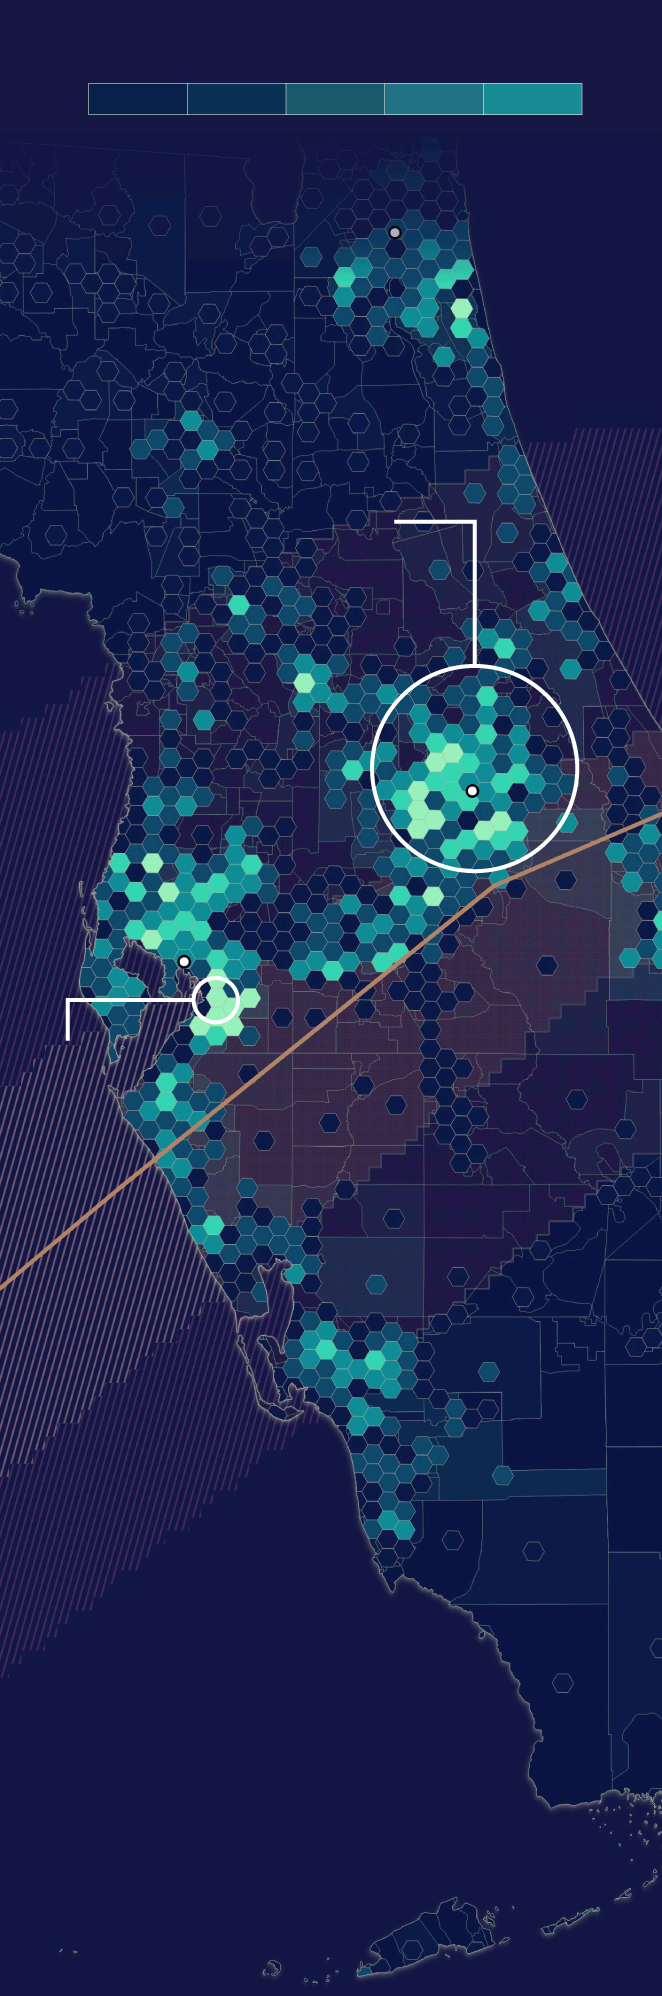
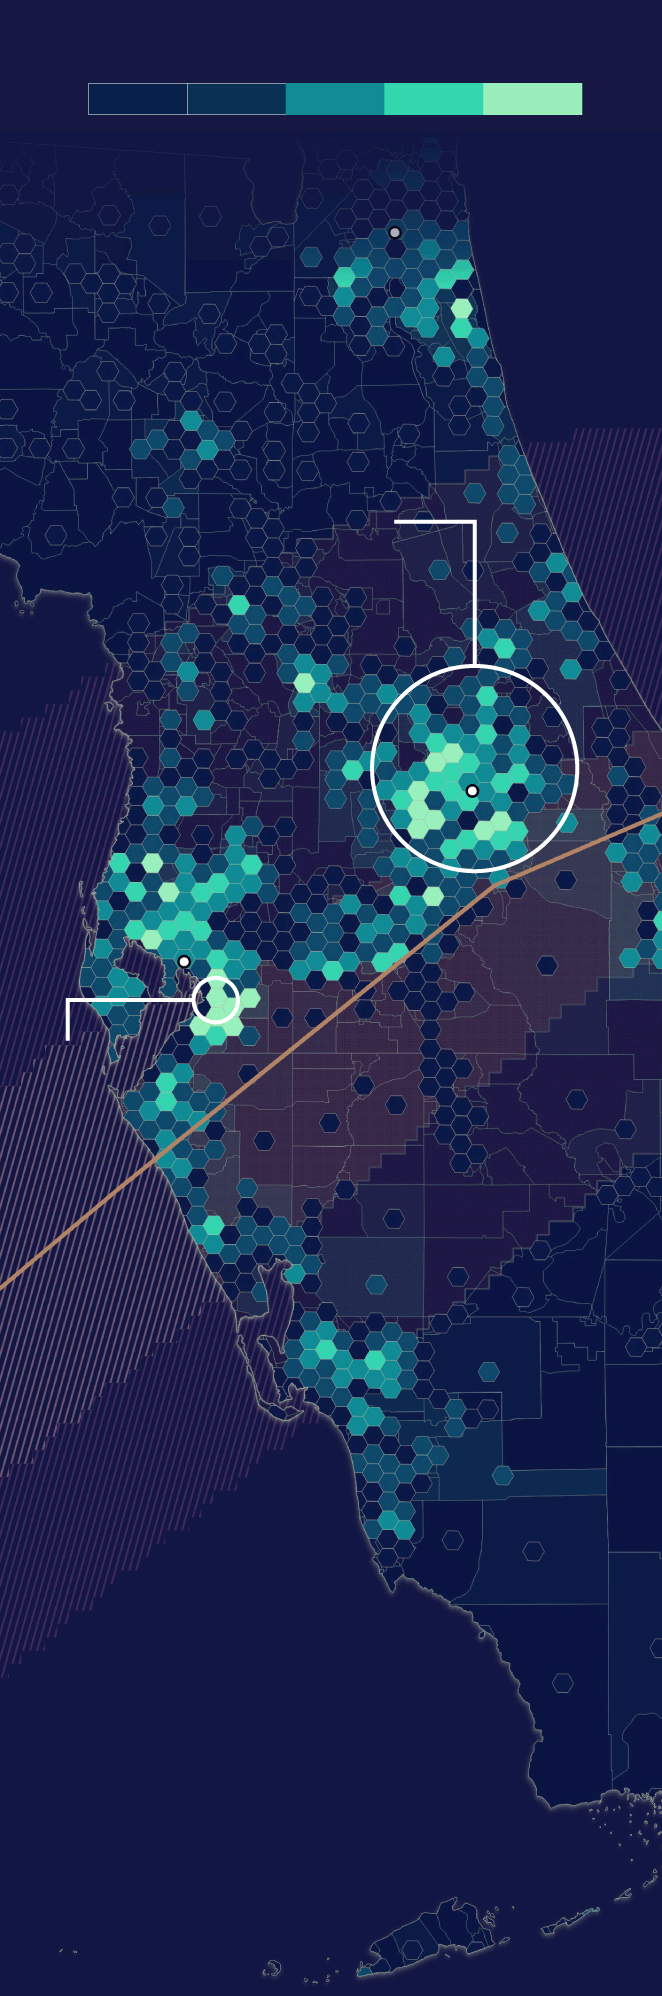
corrects legend

Changed region(s): [[0.423, 0.0311, 0.8761, 0.0621]]

diff --git a/src/ai2html/population-change.svelte b/src/ai2html/population-change.svelte
@@ -1,5 +1,5 @@
 
-<!-- Generated by ai2html v0.100.0 - 2024-10-10 12:20 -->
+<!-- Generated by ai2html v0.100.0 - 2024-10-11 09:49 -->
 <!-- ai file: population-change.ai -->
 <style lang="scss">
 	#g-population-change-box ,
@@ -56,34 +56,41 @@
 		text-align:right;
 	}
 	#g-population-change-sm .g-pstyle2 {
+		line-height:12px;
+		height:12px;
+		font-size:10px;
+		text-align:right;
+		color:rgb(51,51,51);
+	}
+	#g-population-change-sm .g-pstyle3 {
 		font-weight:700;
 		line-height:19px;
 		height:19px;
 		font-size:16px;
 		color:rgb(252,252,252);
 	}
-	#g-population-change-sm .g-pstyle3 {
+	#g-population-change-sm .g-pstyle4 {
 		height:16px;
 		text-align:right;
 	}
-	#g-population-change-sm .g-pstyle4 {
+	#g-population-change-sm .g-pstyle5 {
 		line-height:13px;
 		height:13px;
 		font-size:11px;
 		text-align:center;
 		color:rgb(175,133,102);
 	}
-	#g-population-change-sm .g-pstyle5 {
+	#g-population-change-sm .g-pstyle6 {
 		height:16px;
 	}
-	#g-population-change-sm .g-pstyle6 {
+	#g-population-change-sm .g-pstyle7 {
 		line-height:13px;
 		height:13px;
 		font-size:11px;
 		text-align:center;
 		color:rgb(177,132,98);
 	}
-	#g-population-change-sm .g-pstyle7 {
+	#g-population-change-sm .g-pstyle8 {
 		line-height:13px;
 		height:13px;
 		font-size:11px;
@@ -134,20 +141,27 @@
 		text-align:right;
 	}
 	#g-population-change-md .g-pstyle4 {
-		line-height:13px;
-		height:13px;
-		font-size:11px;
-		text-align:center;
-		color:rgb(175,133,102);
+		line-height:12px;
+		height:12px;
+		font-size:10px;
+		text-align:right;
+		color:rgb(51,51,51);
 	}
 	#g-population-change-md .g-pstyle5 {
 		line-height:13px;
 		height:13px;
 		font-size:11px;
 		text-align:center;
-		color:rgb(177,132,98);
+		color:rgb(175,133,102);
 	}
 	#g-population-change-md .g-pstyle6 {
+		line-height:13px;
+		height:13px;
+		font-size:11px;
+		text-align:center;
+		color:rgb(177,132,98);
+	}
+	#g-population-change-md .g-pstyle7 {
 		line-height:13px;
 		height:13px;
 		font-size:11px;
@@ -188,34 +202,41 @@
 		text-align:right;
 	}
 	#g-population-change-Artboard_82 .g-pstyle2 {
+		line-height:12px;
+		height:12px;
+		font-size:10px;
+		text-align:right;
+		color:rgb(51,51,51);
+	}
+	#g-population-change-Artboard_82 .g-pstyle3 {
 		font-weight:700;
 		line-height:19px;
 		height:19px;
 		font-size:16px;
 		color:rgb(252,252,252);
 	}
-	#g-population-change-Artboard_82 .g-pstyle3 {
+	#g-population-change-Artboard_82 .g-pstyle4 {
 		height:16px;
 		text-align:right;
 	}
-	#g-population-change-Artboard_82 .g-pstyle4 {
+	#g-population-change-Artboard_82 .g-pstyle5 {
 		line-height:13px;
 		height:13px;
 		font-size:11px;
 		text-align:center;
 		color:rgb(175,133,102);
 	}
-	#g-population-change-Artboard_82 .g-pstyle5 {
+	#g-population-change-Artboard_82 .g-pstyle6 {
 		height:16px;
 	}
-	#g-population-change-Artboard_82 .g-pstyle6 {
+	#g-population-change-Artboard_82 .g-pstyle7 {
 		line-height:13px;
 		height:13px;
 		font-size:11px;
 		text-align:center;
 		color:rgb(177,132,98);
 	}
-	#g-population-change-Artboard_82 .g-pstyle7 {
+	#g-population-change-Artboard_82 .g-pstyle8 {
 		line-height:13px;
 		height:13px;
 		font-size:11px;
@@ -240,50 +261,50 @@
 			<p class="g-pstyle1">2k</p>
 		</div>
 		<div id="g-ai0-3" class="g-legend-labels g-aiAbs g-aiPointText" style="top:5.9441%;margin-top:-6.6px;right:55.015%;width:33px;">
-			<p class="g-pstyle1">8k</p>
+			<p class="g-pstyle1">9k</p>
 		</div>
 		<div id="g-ai0-4" class="g-legend-labels g-aiAbs g-aiPointText" style="top:5.9441%;margin-top:-6.6px;right:44.9888%;width:39px;">
 			<p class="g-pstyle1">17k</p>
 		</div>
 		<div id="g-ai0-5" class="g-legend-labels g-aiAbs g-aiPointText" style="top:5.9441%;margin-top:-6.6px;right:35.2553%;width:39px;">
-			<p class="g-pstyle1">35k</p>
+			<p class="g-pstyle2">33k</p>
 		</div>
 		<div id="g-ai0-6" class="g-legend-labels g-aiAbs g-aiPointText" style="top:5.9441%;margin-top:-6.6px;right:25.622%;width:39px;">
-			<p class="g-pstyle1">73k</p>
+			<p class="g-pstyle2">73k</p>
 		</div>
 		<div id="g-ai0-7" class="g-towns g-aiAbs g-aiPointText" style="top:12.7268%;margin-top:-10.7px;left:35.4644%;width:103px;">
-			<p class="g-pstyle2">Jacksonville</p>
+			<p class="g-pstyle3">Jacksonville</p>
 		</div>
 		<div id="g-ai0-8" class="g-labels g-aiAbs g-aiPointText" style="top:25.6395%;margin-top:-32.2px;right:49.4708%;width:225px;">
-			<p class="g-pstyle3">1.5 million people </p>
-			<p class="g-pstyle3">moved to the Orlando metro area </p>
-			<p class="g-pstyle3">in the past decade, a 50% increase </p>
-			<p class="g-pstyle3">over  it's 2010 population </p>
+			<p class="g-pstyle4">1.5 million people </p>
+			<p class="g-pstyle4">moved to the Orlando metro area </p>
+			<p class="g-pstyle4">in the past decade, a 50% increase </p>
+			<p class="g-pstyle4">over  it's 2010 population </p>
 		</div>
 		<div id="g-ai0-9" class="g-towns g-aiAbs g-aiPointText" style="top:39.4406%;margin-top:-10.7px;left:54.9302%;width:77px;">
-			<p class="g-pstyle2">Orlando</p>
+			<p class="g-pstyle3">Orlando</p>
 		</div>
 		<div id="g-ai0-10" class="g-towns g-aiAbs g-aiPointText" style="top:48.0129%;margin-top:-10.7px;left:26.9006%;width:67px;">
-			<p class="g-pstyle2">Tampa</p>
+			<p class="g-pstyle3">Tampa</p>
 		</div>
-		<div id="g-ai0-11" class="g-small-labels g-aiAbs g-aiPointText" style="transform: matrix(0.7947,-0.607,0.607,0.7947,0,0);transform-origin: 50% 56.9489685124864%;-webkit-transform: matrix(0.7947,-0.607,0.607,0.7947,0,0);-webkit-transform-origin: 50% 56.9489685124864%;-ms-transform: matrix(0.7947,-0.607,0.607,0.7947,0,0);-ms-transform-origin: 50% 56.9489685124864%;top:53.9456%;margin-top:-7.2px;left:43.9289%;margin-left:-47.5px;width:95px;">
-			<p class="g-pstyle4">Hurricane path</p>
+		<div id="g-ai0-11" class="g-small-labels g-aiAbs g-aiPointText" style="transform: matrix(0.7947,-0.607,0.607,0.7947,0,0);transform-origin: 50% 56.9489685124864%;-webkit-transform: matrix(0.7947,-0.607,0.607,0.7947,0,0);-webkit-transform-origin: 50% 56.9489685124864%;-ms-transform: matrix(0.7947,-0.607,0.607,0.7947,0,0);-ms-transform-origin: 50% 56.9489685124864%;top:53.9456%;margin-top:-7.2px;left:43.9201%;margin-left:-47.5px;width:95px;">
+			<p class="g-pstyle5">Hurricane path</p>
 		</div>
 		<div id="g-ai0-12" class="g-labels g-aiAbs g-aiPointText" style="top:57.9154%;margin-top:-40px;left:1.985%;width:141px;">
-			<p class="g-pstyle5">Riverview, a suburb </p>
-			<p class="g-pstyle5">of Tampa, almost </p>
-			<p class="g-pstyle5">doubled it's housing </p>
-			<p class="g-pstyle5">stock from 25k to </p>
-			<p class="g-pstyle5">45k units.</p>
+			<p class="g-pstyle6">Riverview, a suburb </p>
+			<p class="g-pstyle6">of Tampa, almost </p>
+			<p class="g-pstyle6">doubled it's housing </p>
+			<p class="g-pstyle6">stock from 25k to </p>
+			<p class="g-pstyle6">45k units.</p>
 		</div>
-		<div id="g-ai0-13" class="g-small-labels g-aiAbs g-aiPointText" style="transform: matrix(0.7864,-0.6177,0.6177,0.7864,0,0);transform-origin: 50% 56.9489685124864%;-webkit-transform: matrix(0.7864,-0.6177,0.6177,0.7864,0,0);-webkit-transform-origin: 50% 56.9489685124864%;-ms-transform: matrix(0.7864,-0.6177,0.6177,0.7864,0,0);-ms-transform-origin: 50% 56.9489685124864%;top:70.0935%;margin-top:-7.2px;left:22.6866%;margin-left:-51px;width:102px;">
-			<p class="g-pstyle6">Hurricane winds</p>
+		<div id="g-ai0-13" class="g-small-labels g-aiAbs g-aiPointText" style="transform: matrix(0.7864,-0.6177,0.6177,0.7864,0,0);transform-origin: 50% 56.9489685124864%;-webkit-transform: matrix(0.7864,-0.6177,0.6177,0.7864,0,0);-webkit-transform-origin: 50% 56.9489685124864%;-ms-transform: matrix(0.7864,-0.6177,0.6177,0.7864,0,0);-ms-transform-origin: 50% 56.9489685124864%;top:70.0935%;margin-top:-7.2px;left:22.6885%;margin-left:-51px;width:102px;">
+			<p class="g-pstyle7">Hurricane winds</p>
 		</div>
-		<div id="g-ai0-14" class="g-small-labels g-aiAbs g-aiPointText" style="transform: matrix(0.7777,-0.6286,0.6286,0.7777,0,0);transform-origin: 50% 56.9489685124864%;-webkit-transform: matrix(0.7777,-0.6286,0.6286,0.7777,0,0);-webkit-transform-origin: 50% 56.9489685124864%;-ms-transform: matrix(0.7777,-0.6286,0.6286,0.7777,0,0);-ms-transform-origin: 50% 56.9489685124864%;top:77.4697%;margin-top:-7.2px;left:34.3029%;margin-left:-62.5px;width:125px;">
-			<p class="g-pstyle7">Tropical storm winds</p>
+		<div id="g-ai0-14" class="g-small-labels g-aiAbs g-aiPointText" style="transform: matrix(0.7777,-0.6286,0.6286,0.7777,0,0);transform-origin: 50% 56.9489685124864%;-webkit-transform: matrix(0.7777,-0.6286,0.6286,0.7777,0,0);-webkit-transform-origin: 50% 56.9489685124864%;-ms-transform: matrix(0.7777,-0.6286,0.6286,0.7777,0,0);-ms-transform-origin: 50% 56.9489685124864%;top:77.4697%;margin-top:-7.2px;left:34.3134%;margin-left:-62.5px;width:125px;">
+			<p class="g-pstyle8">Tropical storm winds</p>
 		</div>
 		<div id="g-ai0-15" class="g-towns g-aiAbs g-aiPointText" style="top:79.8104%;margin-top:-10.7px;left:85.3013%;width:65px;">
-			<p class="g-pstyle2">Miami</p>
+			<p class="g-pstyle3">Miami</p>
 		</div>
 	</div>
 {/if}
@@ -306,20 +327,20 @@
 		<div id="g-ai1-4" class="g-legend_copy g-aiAbs g-aiPointText" style="top:23.3373%;margin-top:-11.3px;left:17.2611%;margin-left:-89.5px;width:179px;">
 			<p class="g-pstyle2">Increase in population</p>
 		</div>
-		<div id="g-ai1-5" class="g-legend-labels g-aiAbs g-aiPointText" style="top:25.8489%;margin-top:-6.6px;right:91.8123%;width:33px;">
+		<div id="g-ai1-5" class="g-legend-labels g-aiAbs g-aiPointText" style="top:25.9564%;margin-top:-6.6px;right:91.8123%;width:33px;">
 			<p class="g-pstyle3">2k</p>
 		</div>
-		<div id="g-ai1-6" class="g-legend-labels g-aiAbs g-aiPointText" style="top:25.8489%;margin-top:-6.6px;right:86.154%;width:33px;">
-			<p class="g-pstyle3">8k</p>
+		<div id="g-ai1-6" class="g-legend-labels g-aiAbs g-aiPointText" style="top:25.9564%;margin-top:-6.6px;right:86.154%;width:33px;">
+			<p class="g-pstyle3">9k</p>
 		</div>
-		<div id="g-ai1-7" class="g-legend-labels g-aiAbs g-aiPointText" style="top:25.8489%;margin-top:-6.6px;right:80.27%;width:39px;">
+		<div id="g-ai1-7" class="g-legend-labels g-aiAbs g-aiPointText" style="top:25.9564%;margin-top:-6.6px;right:80.27%;width:39px;">
 			<p class="g-pstyle3">17k</p>
 		</div>
-		<div id="g-ai1-8" class="g-sm g-aiAbs g-aiPointText" style="top:25.8489%;margin-top:-6.6px;right:74.5062%;width:39px;">
-			<p class="g-pstyle3">35k</p>
+		<div id="g-ai1-8" class="g-sm g-aiAbs g-aiPointText" style="top:25.9564%;margin-top:-6.6px;right:74.5062%;width:39px;">
+			<p class="g-pstyle4">33k</p>
 		</div>
-		<div id="g-ai1-9" class="g-sm g-aiAbs g-aiPointText" style="top:25.8489%;margin-top:-6.6px;right:68.8142%;width:39px;">
-			<p class="g-pstyle3">73k</p>
+		<div id="g-ai1-9" class="g-sm g-aiAbs g-aiPointText" style="top:25.9564%;margin-top:-6.6px;right:68.8142%;width:39px;">
+			<p class="g-pstyle4">73k</p>
 		</div>
 		<div id="g-ai1-10" class="g-towns g-aiAbs g-aiPointText" style="top:34.1253%;margin-top:-10.7px;left:65.285%;width:77px;">
 			<p class="g-pstyle0">Orlando</p>
@@ -327,8 +348,8 @@
 		<div id="g-ai1-11" class="g-towns g-aiAbs g-aiPointText" style="top:43.256%;margin-top:-10.7px;left:43.6256%;width:67px;">
 			<p class="g-pstyle0">Tampa</p>
 		</div>
-		<div id="g-ai1-12" class="g-small-labels g-aiAbs g-aiPointText" style="transform: matrix(0.7734,-0.634,0.634,0.7734,0,0);transform-origin: 50% 56.9489685124864%;-webkit-transform: matrix(0.7734,-0.634,0.634,0.7734,0,0);-webkit-transform-origin: 50% 56.9489685124864%;-ms-transform: matrix(0.7734,-0.634,0.634,0.7734,0,0);-ms-transform-origin: 50% 56.9489685124864%;top:50.5088%;margin-top:-7.2px;left:55.3141%;margin-left:-47.5px;width:95px;">
-			<p class="g-pstyle4">Hurricane path</p>
+		<div id="g-ai1-12" class="g-small-labels g-aiAbs g-aiPointText" style="transform: matrix(0.7734,-0.634,0.634,0.7734,0,0);transform-origin: 50% 56.9489685124864%;-webkit-transform: matrix(0.7734,-0.634,0.634,0.7734,0,0);-webkit-transform-origin: 50% 56.9489685124864%;-ms-transform: matrix(0.7734,-0.634,0.634,0.7734,0,0);-ms-transform-origin: 50% 56.9489685124864%;top:50.5088%;margin-top:-7.2px;left:55.3236%;margin-left:-47.5px;width:95px;">
+			<p class="g-pstyle5">Hurricane path</p>
 		</div>
 		<div id="g-ai1-13" class="g-labels g-aiAbs g-aiPointText" style="top:52.8749%;margin-top:-32.2px;left:18.1774%;width:173px;">
 			<p class="g-pstyle1">Riverview, a suburb </p>
@@ -336,11 +357,11 @@
 			<p class="g-pstyle1">it's housing stock from </p>
 			<p class="g-pstyle1">25k to 45k units.</p>
 		</div>
-		<div id="g-ai1-14" class="g-small-labels g-aiAbs g-aiPointText" style="transform: matrix(0.7864,-0.6177,0.6177,0.7864,0,0);transform-origin: 50% 56.9489685124864%;-webkit-transform: matrix(0.7864,-0.6177,0.6177,0.7864,0,0);-webkit-transform-origin: 50% 56.9489685124864%;-ms-transform: matrix(0.7864,-0.6177,0.6177,0.7864,0,0);-ms-transform-origin: 50% 56.9489685124864%;top:69.5223%;margin-top:-7.2px;left:35.1662%;margin-left:-51px;width:102px;">
-			<p class="g-pstyle5">Hurricane winds</p>
+		<div id="g-ai1-14" class="g-small-labels g-aiAbs g-aiPointText" style="transform: matrix(0.7864,-0.6177,0.6177,0.7864,0,0);transform-origin: 50% 56.9489685124864%;-webkit-transform: matrix(0.7864,-0.6177,0.6177,0.7864,0,0);-webkit-transform-origin: 50% 56.9489685124864%;-ms-transform: matrix(0.7864,-0.6177,0.6177,0.7864,0,0);-ms-transform-origin: 50% 56.9489685124864%;top:69.5223%;margin-top:-7.2px;left:35.1677%;margin-left:-51px;width:102px;">
+			<p class="g-pstyle6">Hurricane winds</p>
 		</div>
-		<div id="g-ai1-15" class="g-small-labels g-aiAbs g-aiPointText" style="transform: matrix(0.7864,-0.6177,0.6177,0.7864,0,0);transform-origin: 50% 56.9489685124864%;-webkit-transform: matrix(0.7864,-0.6177,0.6177,0.7864,0,0);-webkit-transform-origin: 50% 56.9489685124864%;-ms-transform: matrix(0.7864,-0.6177,0.6177,0.7864,0,0);-ms-transform-origin: 50% 56.9489685124864%;top:77.5789%;margin-top:-7.2px;left:45.3522%;margin-left:-62.5px;width:125px;">
-			<p class="g-pstyle6">Tropical storm winds</p>
+		<div id="g-ai1-15" class="g-small-labels g-aiAbs g-aiPointText" style="transform: matrix(0.7864,-0.6177,0.6177,0.7864,0,0);transform-origin: 50% 56.9489685124864%;-webkit-transform: matrix(0.7864,-0.6177,0.6177,0.7864,0,0);-webkit-transform-origin: 50% 56.9489685124864%;-ms-transform: matrix(0.7864,-0.6177,0.6177,0.7864,0,0);-ms-transform-origin: 50% 56.9489685124864%;top:77.5789%;margin-top:-7.2px;left:45.3535%;margin-left:-62.5px;width:125px;">
+			<p class="g-pstyle7">Tropical storm winds</p>
 		</div>
 		<div id="g-ai1-16" class="g-towns g-aiAbs g-aiPointText" style="top:78.0604%;margin-top:-10.7px;left:89.5937%;width:65px;">
 			<p class="g-pstyle0">Miami</p>
@@ -357,51 +378,51 @@
 			<p class="g-pstyle1">2k</p>
 		</div>
 		<div id="g-ai2-3" class="g-legend-labels g-aiAbs g-aiPointText" style="top:5.0726%;margin-top:-6.6px;right:58.0435%;width:33px;">
-			<p class="g-pstyle1">8k</p>
+			<p class="g-pstyle1">9k</p>
 		</div>
 		<div id="g-ai2-4" class="g-legend-labels g-aiAbs g-aiPointText" style="top:5.0726%;margin-top:-6.6px;right:42.8197%;width:39px;">
 			<p class="g-pstyle1">17k</p>
 		</div>
 		<div id="g-ai2-5" class="g-legend-labels g-aiAbs g-aiPointText" style="top:5.0726%;margin-top:-6.6px;right:28.0223%;width:39px;">
-			<p class="g-pstyle1">35k</p>
+			<p class="g-pstyle2">33k</p>
 		</div>
 		<div id="g-ai2-6" class="g-legend-labels g-aiAbs g-aiPointText" style="top:5.0726%;margin-top:-6.6px;right:12.834%;width:39px;">
-			<p class="g-pstyle1">73k</p>
+			<p class="g-pstyle2">73k</p>
 		</div>
 		<div id="g-ai2-7" class="g-towns g-aiAbs g-aiPointText" style="top:11.4891%;margin-top:-10.7px;left:33.7197%;width:103px;">
-			<p class="g-pstyle2">Jacksonville</p>
+			<p class="g-pstyle3">Jacksonville</p>
 		</div>
 		<div id="g-ai2-8" class="g-labels g-aiAbs g-aiPointText" style="top:25.85%;margin-top:-40px;right:41.9453%;width:174px;">
-			<p class="g-pstyle3">1.5 million people moved </p>
-			<p class="g-pstyle3">to the Orlando metro area </p>
-			<p class="g-pstyle3">in the past decade, </p>
-			<p class="g-pstyle3">a 50% increase over </p>
-			<p class="g-pstyle3">it's 2010 population </p>
+			<p class="g-pstyle4">1.5 million people moved </p>
+			<p class="g-pstyle4">to the Orlando metro area </p>
+			<p class="g-pstyle4">in the past decade, </p>
+			<p class="g-pstyle4">a 50% increase over </p>
+			<p class="g-pstyle4">it's 2010 population </p>
 		</div>
 		<div id="g-ai2-9" class="g-towns g-aiAbs g-aiPointText" style="top:38.3388%;margin-top:-10.7px;left:63.7123%;width:77px;">
-			<p class="g-pstyle2">Orlando</p>
+			<p class="g-pstyle3">Orlando</p>
 		</div>
-		<div id="g-ai2-10" class="g-small-labels g-aiAbs g-aiPointText" style="transform: matrix(0.9191,-0.394,0.394,0.9191,0,0);transform-origin: 50% 56.9489685124864%;-webkit-transform: matrix(0.9191,-0.394,0.394,0.9191,0,0);-webkit-transform-origin: 50% 56.9489685124864%;-ms-transform: matrix(0.9191,-0.394,0.394,0.9191,0,0);-ms-transform-origin: 50% 56.9489685124864%;top:43.2997%;margin-top:-7.2px;left:88.5217%;margin-left:-47.5px;width:95px;">
-			<p class="g-pstyle4">Hurricane path</p>
+		<div id="g-ai2-10" class="g-small-labels g-aiAbs g-aiPointText" style="transform: matrix(0.9191,-0.394,0.394,0.9191,0,0);transform-origin: 50% 56.9489685124864%;-webkit-transform: matrix(0.9191,-0.394,0.394,0.9191,0,0);-webkit-transform-origin: 50% 56.9489685124864%;-ms-transform: matrix(0.9191,-0.394,0.394,0.9191,0,0);-ms-transform-origin: 50% 56.9489685124864%;top:43.2997%;margin-top:-7.2px;left:88.5158%;margin-left:-47.5px;width:95px;">
+			<p class="g-pstyle5">Hurricane path</p>
 		</div>
 		<div id="g-ai2-11" class="g-towns g-aiAbs g-aiPointText" style="top:46.9547%;margin-top:-10.7px;left:21.7204%;width:67px;">
-			<p class="g-pstyle2">Tampa</p>
+			<p class="g-pstyle3">Tampa</p>
 		</div>
 		<div id="g-ai2-12" class="g-labels g-aiAbs g-aiPointText" style="top:56.7072%;margin-top:-40px;left:8.8198%;width:141px;">
-			<p class="g-pstyle5">Riverview, a suburb </p>
-			<p class="g-pstyle5">of Tampa, almost </p>
-			<p class="g-pstyle5">doubled it's housing </p>
-			<p class="g-pstyle5">stock from 25k to </p>
-			<p class="g-pstyle5">45k units.</p>
+			<p class="g-pstyle6">Riverview, a suburb </p>
+			<p class="g-pstyle6">of Tampa, almost </p>
+			<p class="g-pstyle6">doubled it's housing </p>
+			<p class="g-pstyle6">stock from 25k to </p>
+			<p class="g-pstyle6">45k units.</p>
 		</div>
-		<div id="g-ai2-13" class="g-small-labels g-aiAbs g-aiPointText" style="transform: matrix(0.7864,-0.6177,0.6177,0.7864,0,0);transform-origin: 50% 56.9489685124864%;-webkit-transform: matrix(0.7864,-0.6177,0.6177,0.7864,0,0);-webkit-transform-origin: 50% 56.9489685124864%;-ms-transform: matrix(0.7864,-0.6177,0.6177,0.7864,0,0);-ms-transform-origin: 50% 56.9489685124864%;top:67.8451%;margin-top:-7.2px;left:17.9812%;margin-left:-51px;width:102px;">
-			<p class="g-pstyle6">Hurricane winds</p>
+		<div id="g-ai2-13" class="g-small-labels g-aiAbs g-aiPointText" style="transform: matrix(0.7864,-0.6177,0.6177,0.7864,0,0);transform-origin: 50% 56.9489685124864%;-webkit-transform: matrix(0.7864,-0.6177,0.6177,0.7864,0,0);-webkit-transform-origin: 50% 56.9489685124864%;-ms-transform: matrix(0.7864,-0.6177,0.6177,0.7864,0,0);-ms-transform-origin: 50% 56.9489685124864%;top:67.8451%;margin-top:-7.2px;left:17.9838%;margin-left:-51px;width:102px;">
+			<p class="g-pstyle7">Hurricane winds</p>
 		</div>
-		<div id="g-ai2-14" class="g-small-labels g-aiAbs g-aiPointText" style="transform: matrix(0.7871,-0.6168,0.6168,0.7871,0,0);transform-origin: 50% 56.9489685124864%;-webkit-transform: matrix(0.7871,-0.6168,0.6168,0.7871,0,0);-webkit-transform-origin: 50% 56.9489685124864%;-ms-transform: matrix(0.7871,-0.6168,0.6168,0.7871,0,0);-ms-transform-origin: 50% 56.9489685124864%;top:75.86%;margin-top:-7.2px;left:34.6715%;margin-left:-62.5px;width:125px;">
-			<p class="g-pstyle7">Tropical storm winds</p>
+		<div id="g-ai2-14" class="g-small-labels g-aiAbs g-aiPointText" style="transform: matrix(0.7871,-0.6168,0.6168,0.7871,0,0);transform-origin: 50% 56.9489685124864%;-webkit-transform: matrix(0.7871,-0.6168,0.6168,0.7871,0,0);-webkit-transform-origin: 50% 56.9489685124864%;-ms-transform: matrix(0.7871,-0.6168,0.6168,0.7871,0,0);-ms-transform-origin: 50% 56.9489685124864%;top:75.86%;margin-top:-7.2px;left:34.6647%;margin-left:-62.5px;width:125px;">
+			<p class="g-pstyle8">Tropical storm winds</p>
 		</div>
 		<div id="g-ai2-15" class="g-towns g-aiAbs g-aiPointText" style="top:78.9138%;margin-top:-10.7px;left:56.5126%;width:65px;">
-			<p class="g-pstyle2">Miami</p>
+			<p class="g-pstyle3">Miami</p>
 		</div>
 	</div>
 {/if}
@@ -417,4 +438,4 @@ onMount(() => {
 });
 
 </script>
-<!-- End ai2html - 2024-10-10 12:20 -->
+<!-- End ai2html - 2024-10-11 09:49 -->
